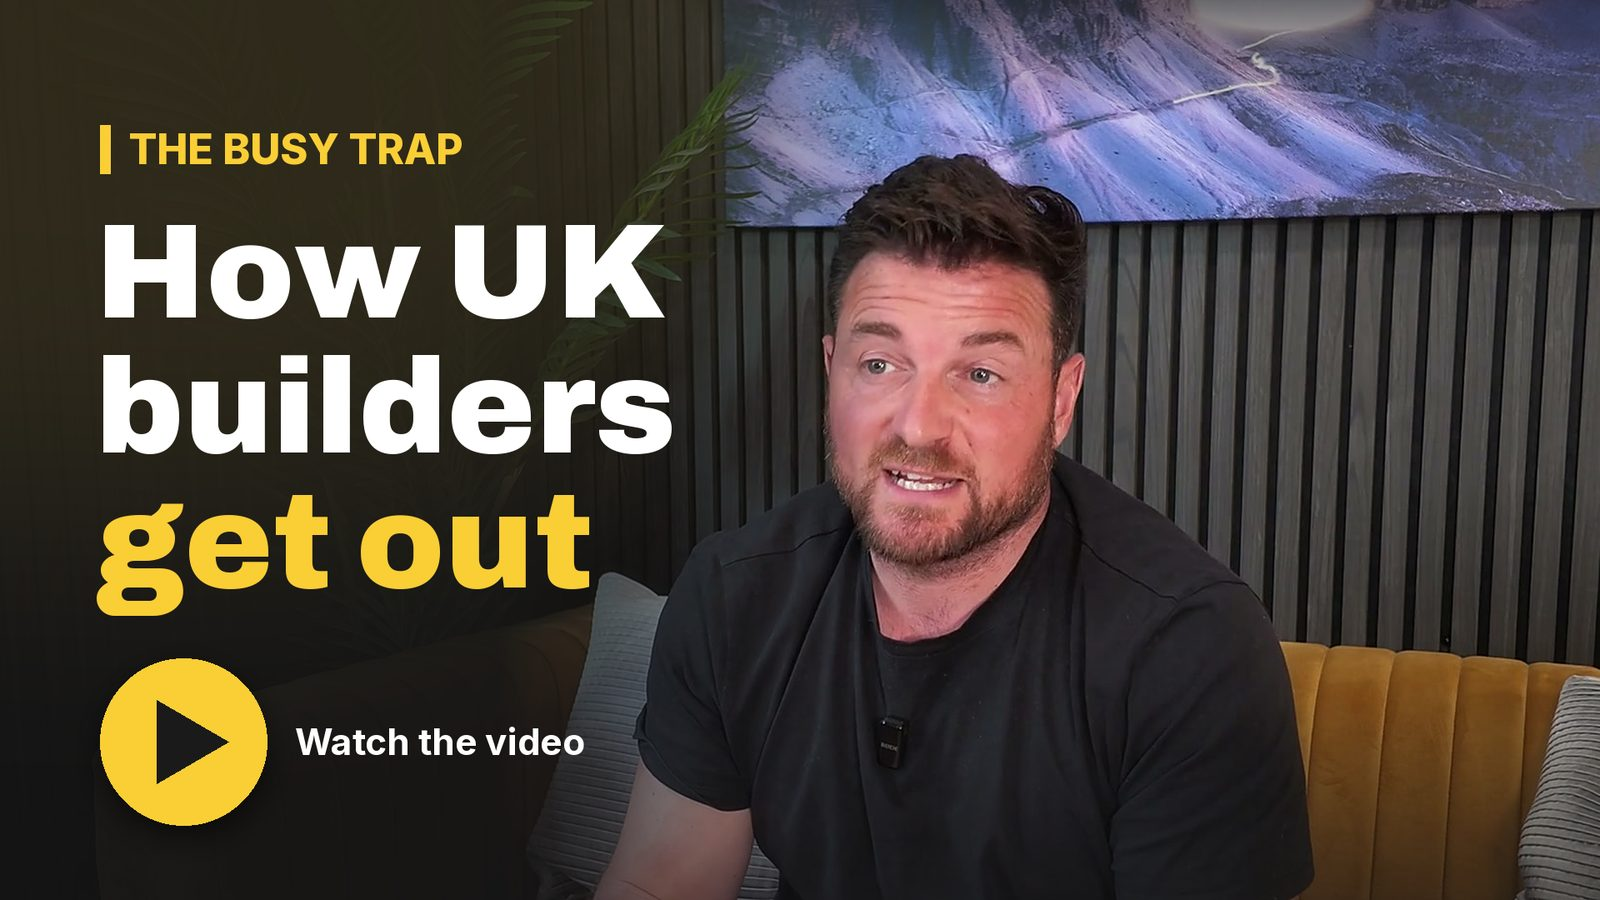
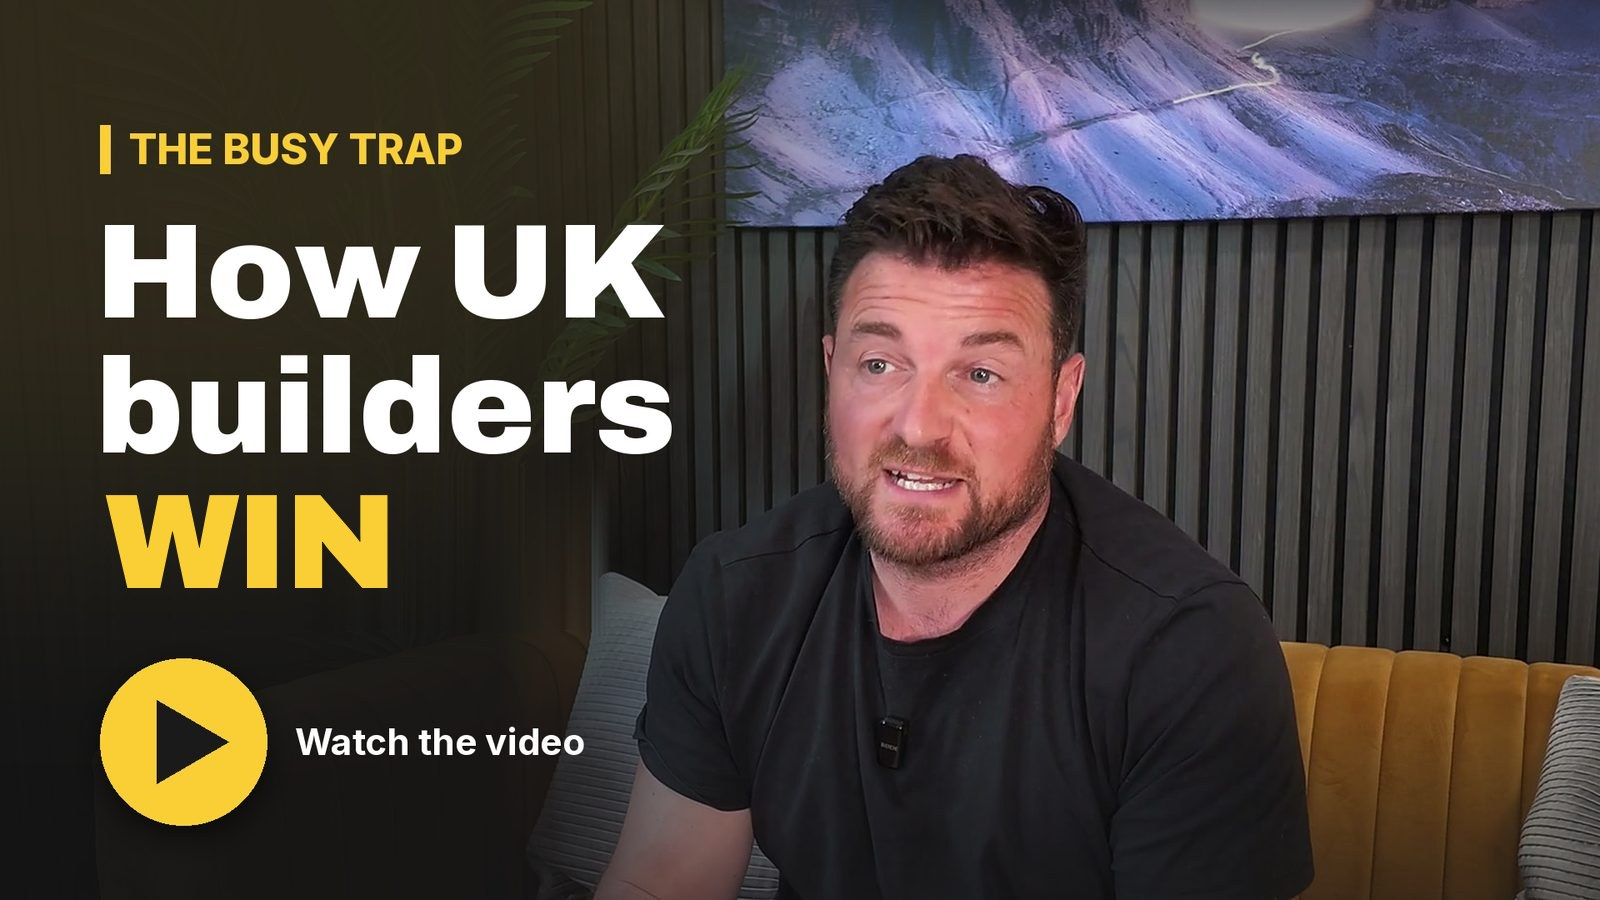
build-better: cover reads "How UK builders WIN"; 24 case studies for an even grid
- Video cover: "get out" replaced with "WIN" in the same font, size and yellow,
  with screen-reader labels to match (Greg).
- Real builders. Real results.: Sophie and Neil, the weakest of the 25, taken
  out so the grid is an even 8 rows of 3 (Greg).

Changed region(s): [[0.0625, 0.5289, 0.375, 0.6844]]

diff --git a/www/build-better/index.html b/www/build-better/index.html
@@ -532,9 +532,9 @@ fbq('track', 'ViewContent', {content_name: 'VSL Application (build-better)'});
            and sets the minutes in the label above to the real length of that cut. -->
       <button type="button" class="vsl-poster" id="vslPoster"
         data-src="https://drive.google.com/file/d/1JDxVQlHH4X9MAONQ1etRp4fxYzffC3k5/preview?autoplay=1"
-        aria-label="Play the video: the busy trap, how UK builders get out">
+        aria-label="Play the video: the busy trap, how UK builders win">
         <img src="/build-better/vsl-cover.jpg" width="1600" height="900"
-          alt="Greg Wilkes. The busy trap: how UK builders get out. Watch the video." fetchpriority="high">
+          alt="Greg Wilkes. The busy trap: how UK builders win. Watch the video." fetchpriority="high">
       </button>
     </div>
   </div>
@@ -708,7 +708,7 @@ fbq('track', 'ViewContent', {content_name: 'VSL Application (build-better)'});
   <div class="container">
     <div class="section-head">
       <h2>Real builders. Real results.</h2>
-      <p>25 members, in their own words. Tap a tile to watch.</p>
+      <p>24 members, in their own words. Tap a tile to watch.</p>
     </div>
 
     <div class="story-grid">
@@ -808,7 +808,7 @@ fbq('track', 'ViewContent', {content_name: 'VSL Application (build-better)'});
           <p class="stat">Their last coach, in their words, "promised the earth and didn't really deliver". More structure since, and ready for bigger projects.</p>
         </div>
       </article>
-      <!-- The other 13 client wins videos, so all 25 sit together here (Chloe, 24 Nov 2026). -->
+      <!-- 12 more client wins videos (Chloe, 24 Nov 2026). Sophie and Neil left out so the grid is an even 24 (Greg). -->
       <article class="story reveal">
         <div class="story-video" data-yt="ecKFCE1r-18" data-title="Marek's story"></div>
         <div class="story-body">
@@ -903,14 +903,6 @@ fbq('track', 'ViewContent', {content_name: 'VSL Application (build-better)'});
           <p class="stat"><em>Structure and community</em></p>
           <div class="who">Paul Murphy</div>
           <p class="summary">Paul says stronger structure and organisation helped the family-run business present itself more professionally, while the member community made business problems easier to solve.</p>
-        </div>
-      </article>
-      <article class="story reveal">
-        <div class="story-video" data-yt="IZYls1vXkQo" data-title="Sophie and Neil's story"></div>
-        <div class="story-body">
-          <p class="stat"><em>Focus</em></p>
-          <div class="who">Sophie and Neil</div>
-          <p class="summary">Clearer targets, stronger organisation and peer support helped Sophie and Neil sharpen their business focus.</p>
         </div>
       </article>
     </div>
@@ -1397,7 +1389,7 @@ fbq('track', 'ViewContent', {content_name: 'VSL Application (build-better)'});
   if (poster) poster.addEventListener('click', function(){
     var f = document.createElement('iframe');
     f.src = poster.getAttribute('data-src');
-    f.title = 'The busy trap: how UK builders get out';
+    f.title = 'The busy trap: how UK builders win';
     f.allow = 'autoplay; fullscreen';
     f.allowFullscreen = true;
     poster.parentNode.replaceChild(f, poster);
